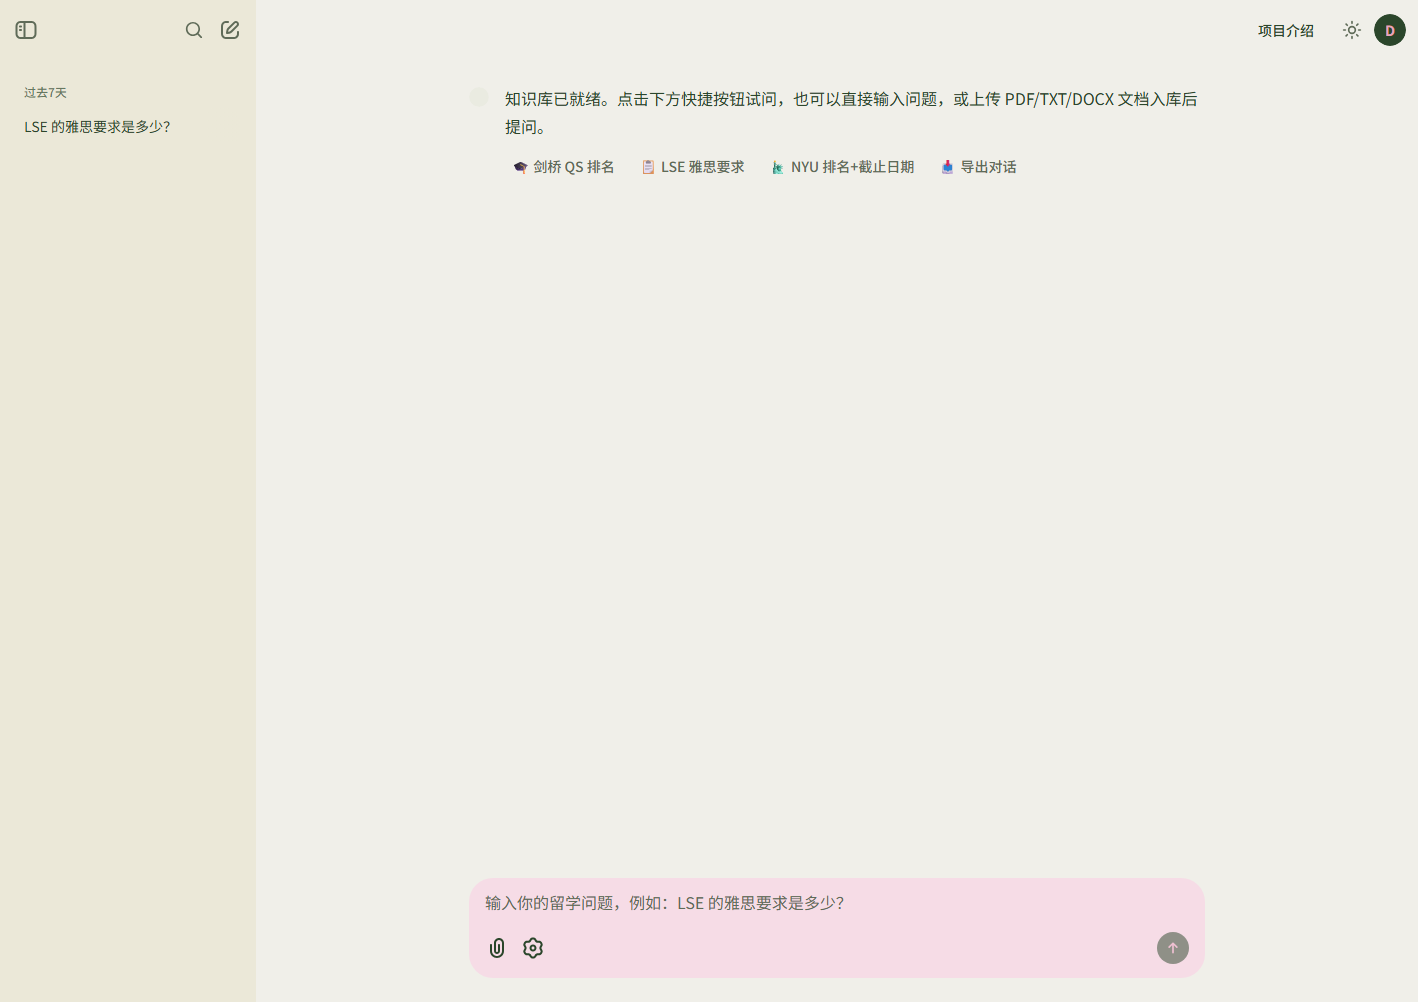
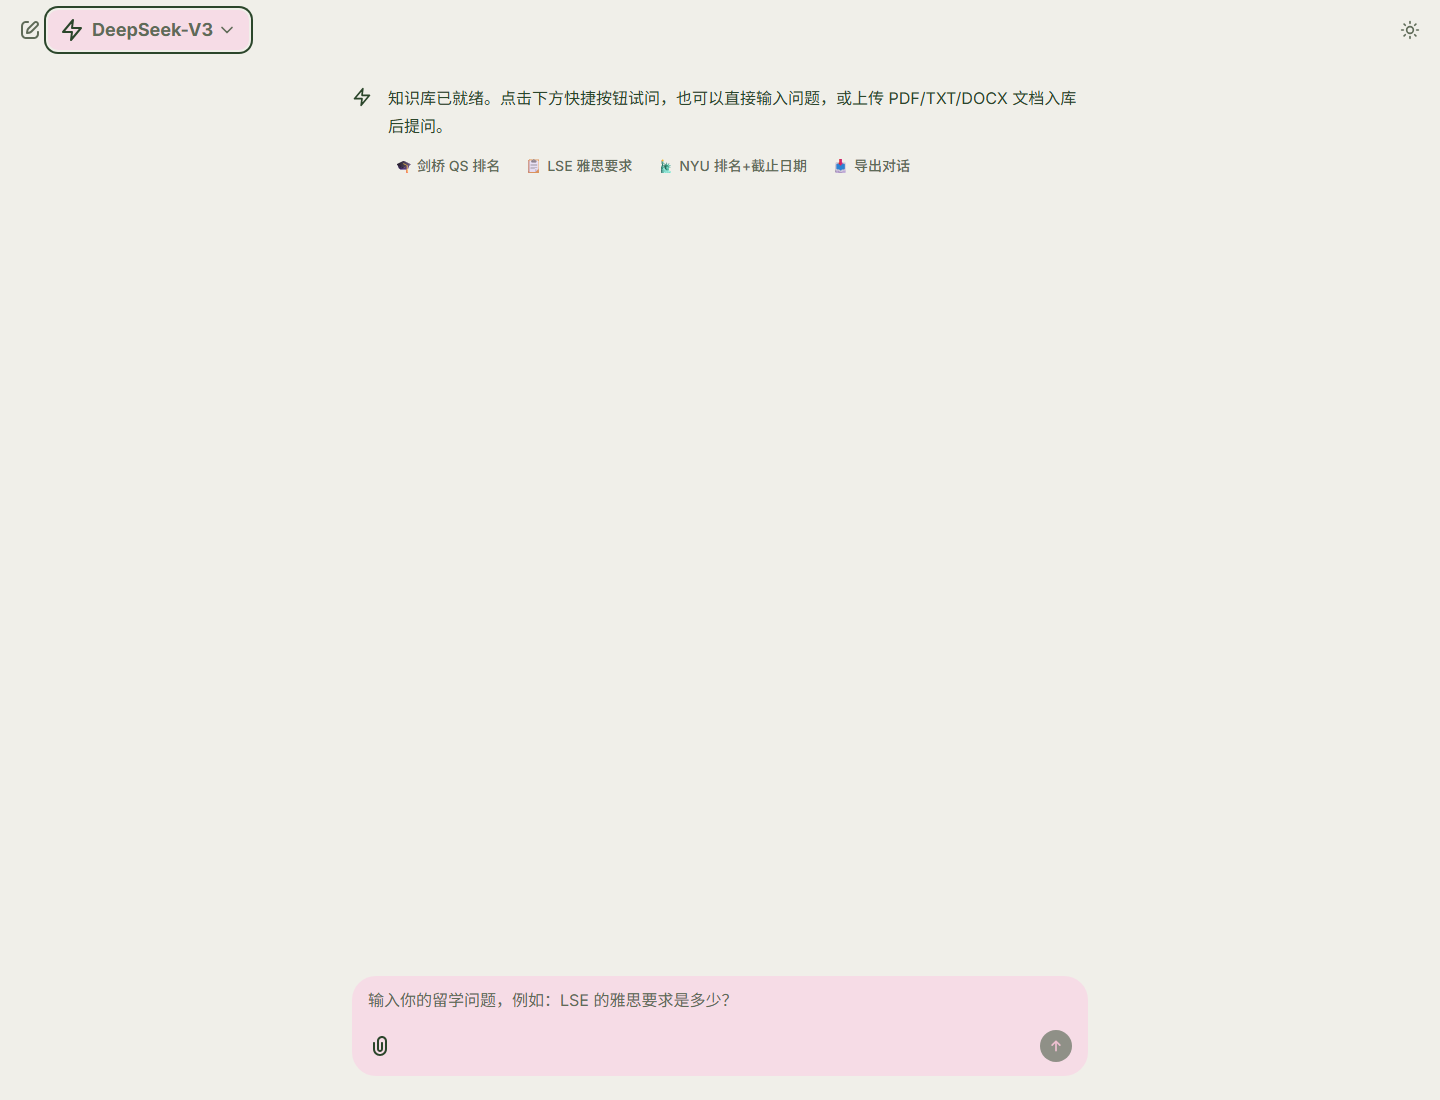
feat(web): chat-profile model switcher in header and refined citation cards
- Replace hidden settings-panel model select with visible Chat Profile
  dropdown in the chat header (DeepSeek-V3 / DeepSeek-R1 with icons)
- Remove default chainlit.md welcome screen by emptying the file
- Citation cards: keep newlines in excerpts, widen cap to 2000 chars,
  pick 1-2 supporting sentences by local cosine similarity, escape
  markdown triggers, strip crawl metadata lines
- Re-capture docs/screenshot.png and docs/screenshot_qa.png

diff --git a/tools.py b/tools.py
@@ -115,7 +115,11 @@ class RankingTool(ToolMessage):
 
 # 引用来源行格式：^[n] 后跟文档路径（本地绝对路径），只保留文件名展示
 _CITE_RE = re.compile(r"^\[\^(\d+)\]\s+(.+)$")
-_CITE_EXCERPT_CHARS = 200  # 引用卡片里每篇文档的原文摘录截断长度
+# 引用卡片里每篇文档的原文摘录截断长度（安全上限）。上限要能覆盖一个完整
+# 检索块（英文块约 200 词 ≈ 1200+ 字符）：卡片在展示层按「与回答最相似的
+# 句子」选句（web_ui._send_citations），这里截得太短会把支持句截没，
+# 选句无从谈起。2000 字符覆盖 ~300 词，块内句子不会因截断缺席。
+_CITE_EXCERPT_CHARS = 2000
 
 
 def _parse_citations(source_content: str) -> List[tuple]:
@@ -126,8 +130,8 @@ def _parse_citations(source_content: str) -> List[tuple]:
         [^4] D:\\study-abroad-qa\\docs\\crawled-lse-....txt
             Graduate programmes at LSE are demanding ...
 
-    路径只取文件名（绝对路径是本地信息，不进界面）；摘录截断到
-    _CITE_EXCERPT_CHARS，控制卡片体积。
+    路径只取文件名（绝对路径是本地信息，不进界面）；摘录行保留换行
+    （展示层按行/句拆开选句），截断到 _CITE_EXCERPT_CHARS 作为安全上限。
     """
     entries: List[List] = []
     current: Optional[List] = None
@@ -140,7 +144,7 @@ def _parse_citations(source_content: str) -> List[tuple]:
         elif current is not None and line.strip():
             current[2].append(line.strip())  # 摘录行（缩进已在 strip 中去掉）
     return [
-        (num, name, " ".join(excerpt)[:_CITE_EXCERPT_CHARS])
+        (num, name, "\n".join(excerpt)[:_CITE_EXCERPT_CHARS])
         for num, name, excerpt in entries
     ]
 
